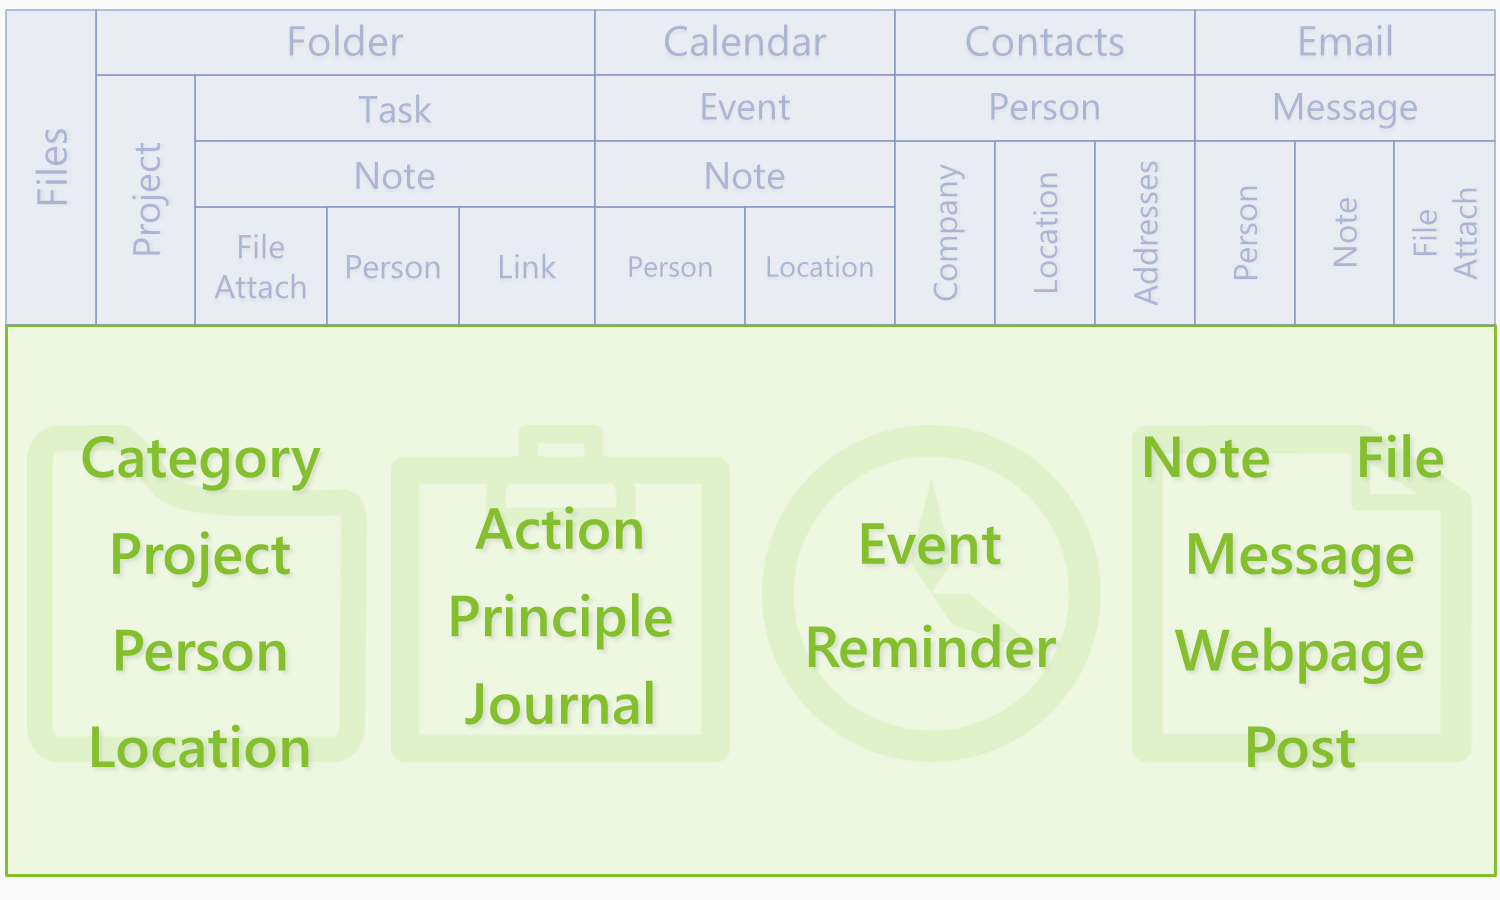
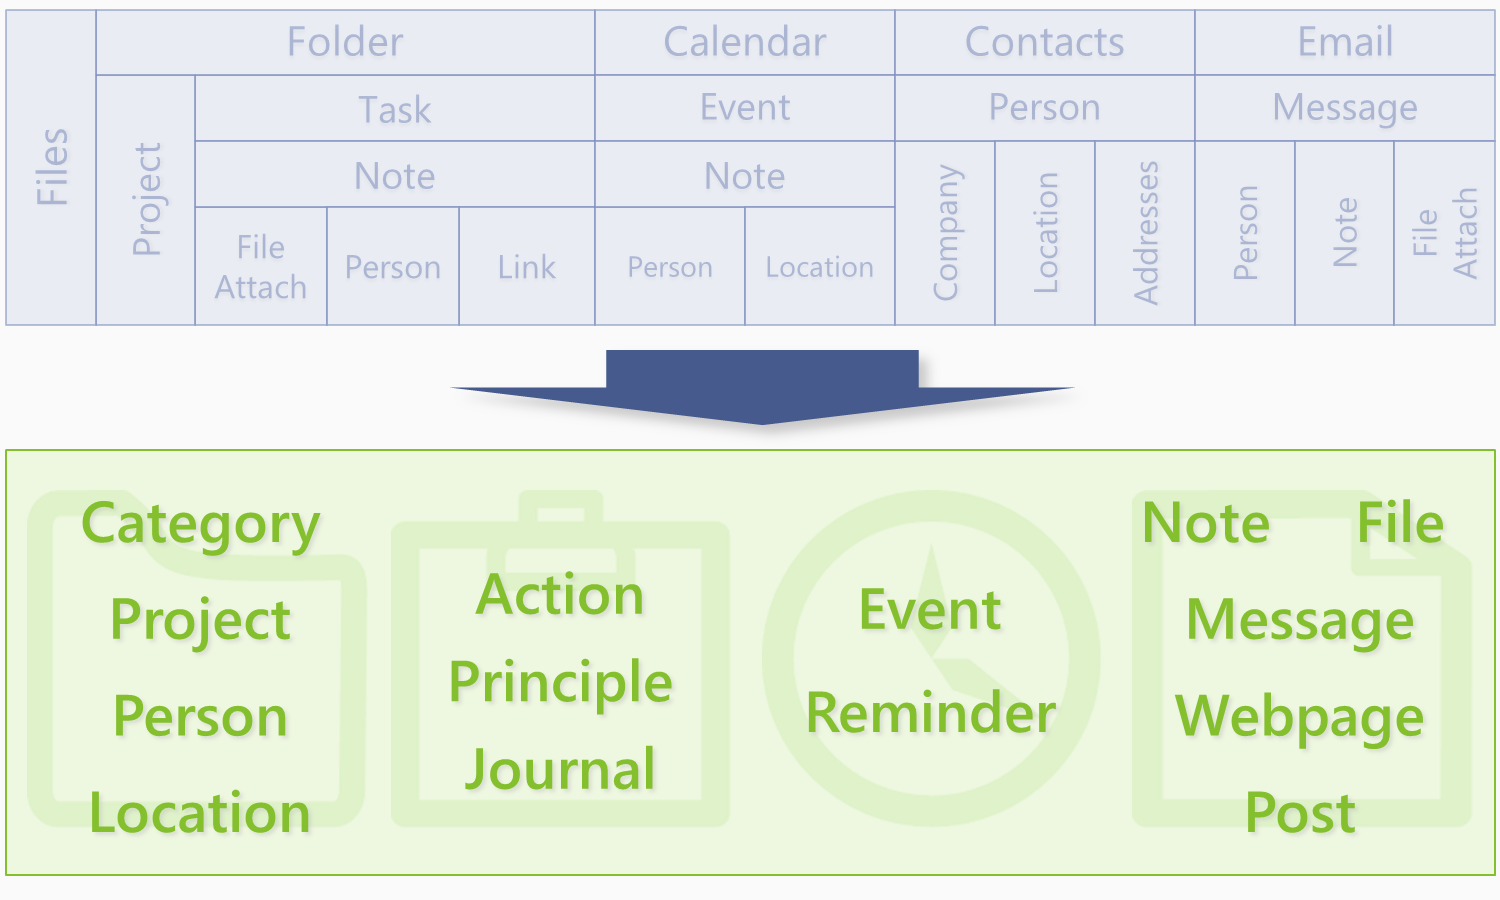
Add 'associations' content and create content element transitions
Make images with transparent background.

diff --git a/tracuse_project/assets/website/website.js b/tracuse_project/assets/website/website.js
@@ -19,6 +19,41 @@
         }
     };
 
+    /* Run content transitions */
+    var toggleContentTransition = function (sectionID) {
+
+        var duration = 500;
+        var sectionElement = $("#" + sectionID);
+
+        switch (sectionID) {
+
+            case "objects":
+                var oldImg = sectionElement.find("img.old");
+                var arrowImg = sectionElement.find("img.arrow");
+                var newObjImg = sectionElement.find("img.new");
+                if (oldImg.css("display") === "none") {
+                    oldImg.fadeIn(duration, function () {
+                        arrowImg.fadeIn(duration, function () {
+                            newObjImg.fadeIn(duration);
+                        });
+                    });
+                }
+                break;
+
+            case "associations":
+                var foldersImg = sectionElement.find("img.folders");
+                var tagsImg = sectionElement.find("img.tags");
+                var newAssocImg = sectionElement.find("img.new");
+                if (foldersImg.css("display") === "none") {
+                    foldersImg.effect("slide", {"direction": "left"}, duration);
+                    tagsImg.effect("slide", {"direction": "right"}, duration, function () {
+                        newAssocImg.effect("slide", {"direction": "down"}, duration);
+                    });
+                }
+                break;
+        }
+    };
+
     /* Navigation Button - Set Active */
     navButtons.on("click", function (e) {
         var button = e.target;
@@ -50,6 +85,9 @@
                 var currentId = currentSection.attr('id');
                 headerNav.find("button").removeClass('active');
                 headerNav.find("[href=#" + currentId + "] button").addClass('active');
+
+                // Transition content
+                toggleContentTransition(currentId);
             }
         });
 

diff --git a/tracuse_project/templates/website/base_website.html b/tracuse_project/templates/website/base_website.html
@@ -60,21 +60,34 @@
                 Simplify your data into clearly defined, easy-to-use objects
             </p>
         </div>
-        <img src="{% static 'images/learn/objects-1500x900.png' %}">
+        <div class="image-container">
+            <img class="old" src="{% static 'images/learn/objects-old-1500x900.png' %}">
+            <img class="arrow" src="{% static 'images/learn/objects-arrow-1500x900.png' %}">
+            <img class="new" src="{% static 'images/learn/objects-new-1500x900.png' %}">
+        </div>
     </section>
 
     <section class="nav-stop learn-content bkgrd-green" id="associations">
-        <div class="container">
-            <img class="folders" src="#">
+        <div class="content-container">
+            <div class="image-container side">
+                <img class="folders" src="{% static 'images/learn/associations-folders-900x1350.png' %}">
+            </div>
 
             <div class="text">
                 <p>
                     Ditch the folders and tags
-                    <br><br>
+                </p>
+
+                <p>
                     Let's organize our data the way we think
                 </p>
             </div>
-            <img class="tags" src="#">
+            <div class="image-container side">
+                <img class="tags" src="{% static 'images/learn/associations-tags-900x1350.png' %}">
+            </div>
+        </div>
+        <div class="image-container bottom">
+            <img class="new" src="{% static 'images/learn/associations-new-1800x600.png' %}">
         </div>
     </section>
 

diff --git a/tracuse_project/assets/styles/website/base_website.css b/tracuse_project/assets/styles/website/base_website.css
@@ -180,7 +180,51 @@ header nav {
     width: 6.5em;
 }
 
-#objects img {
+#objects .image-container {
+    position: relative;
     width: 50em;
     margin-top: 1em;
+}
+
+#objects .image-container img {
+    display: none;
+    position: absolute;
+    top: 0;
+    left: 0;
+}
+
+#associations {
+    text-align: center;
+}
+
+#associations .content-container {
+    display: inline-block;
+}
+
+#associations .content-container > * {
+    display: inline-block;
+    vertical-align: top;
+}
+
+#associations .text {
+    width: 14em;
+    text-align: center;
+}
+
+#associations .text p {
+    margin: 0;
+}
+
+#associations .image-container.side {
+    width: 15em;
+    opacity: 0.5;
+}
+
+#associations .image-container.bottom {
+    width: 60em;
+    margin: -8em auto;
+}
+
+#associations img {
+    display: none;
 }
